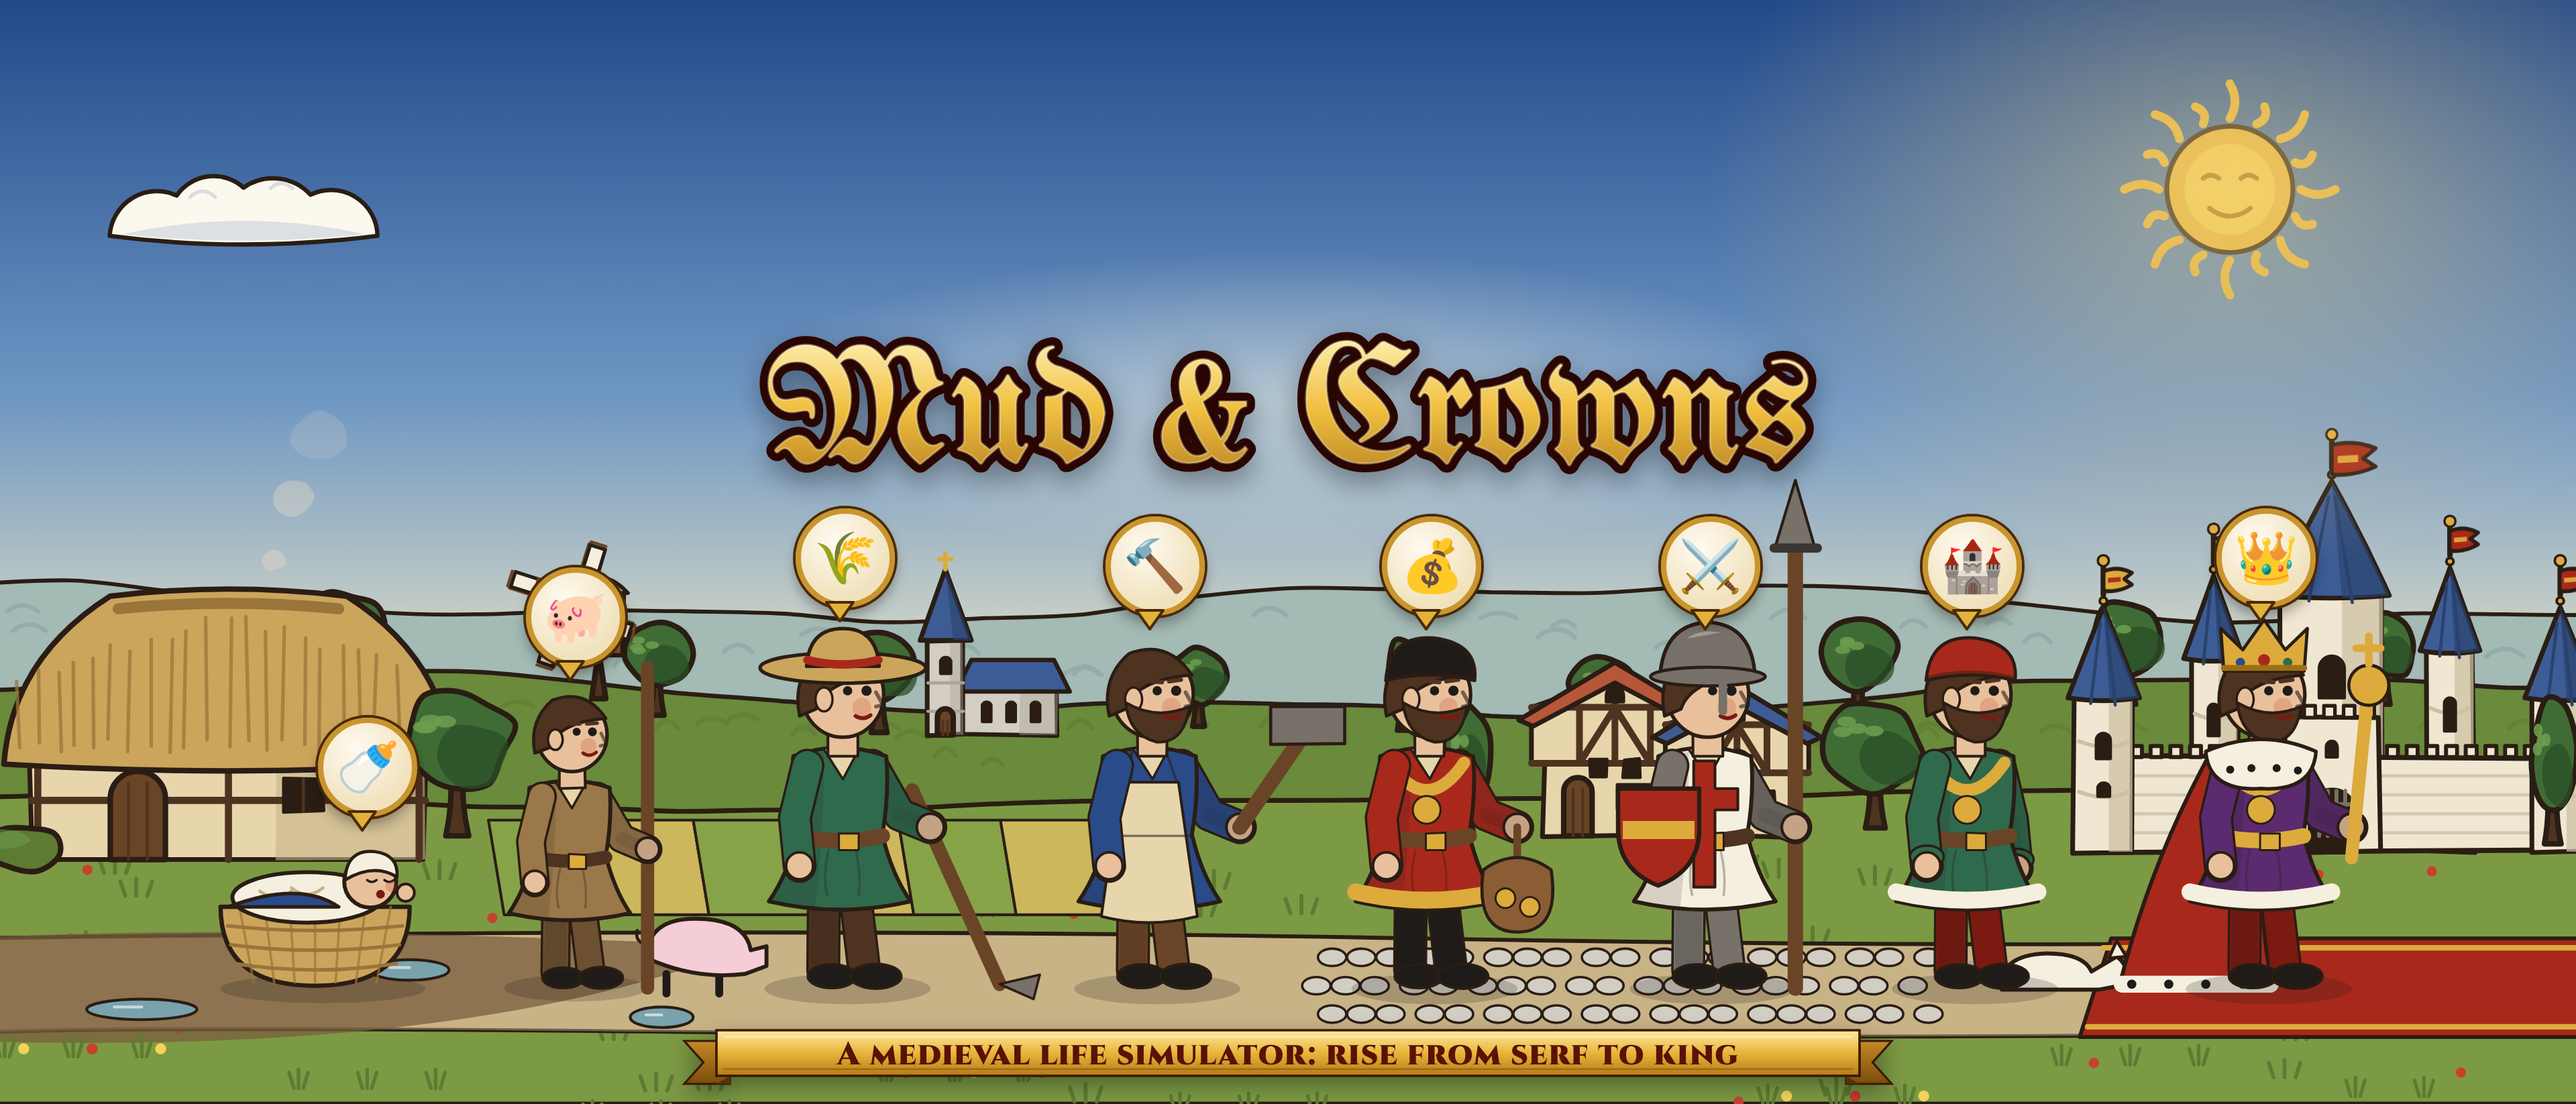
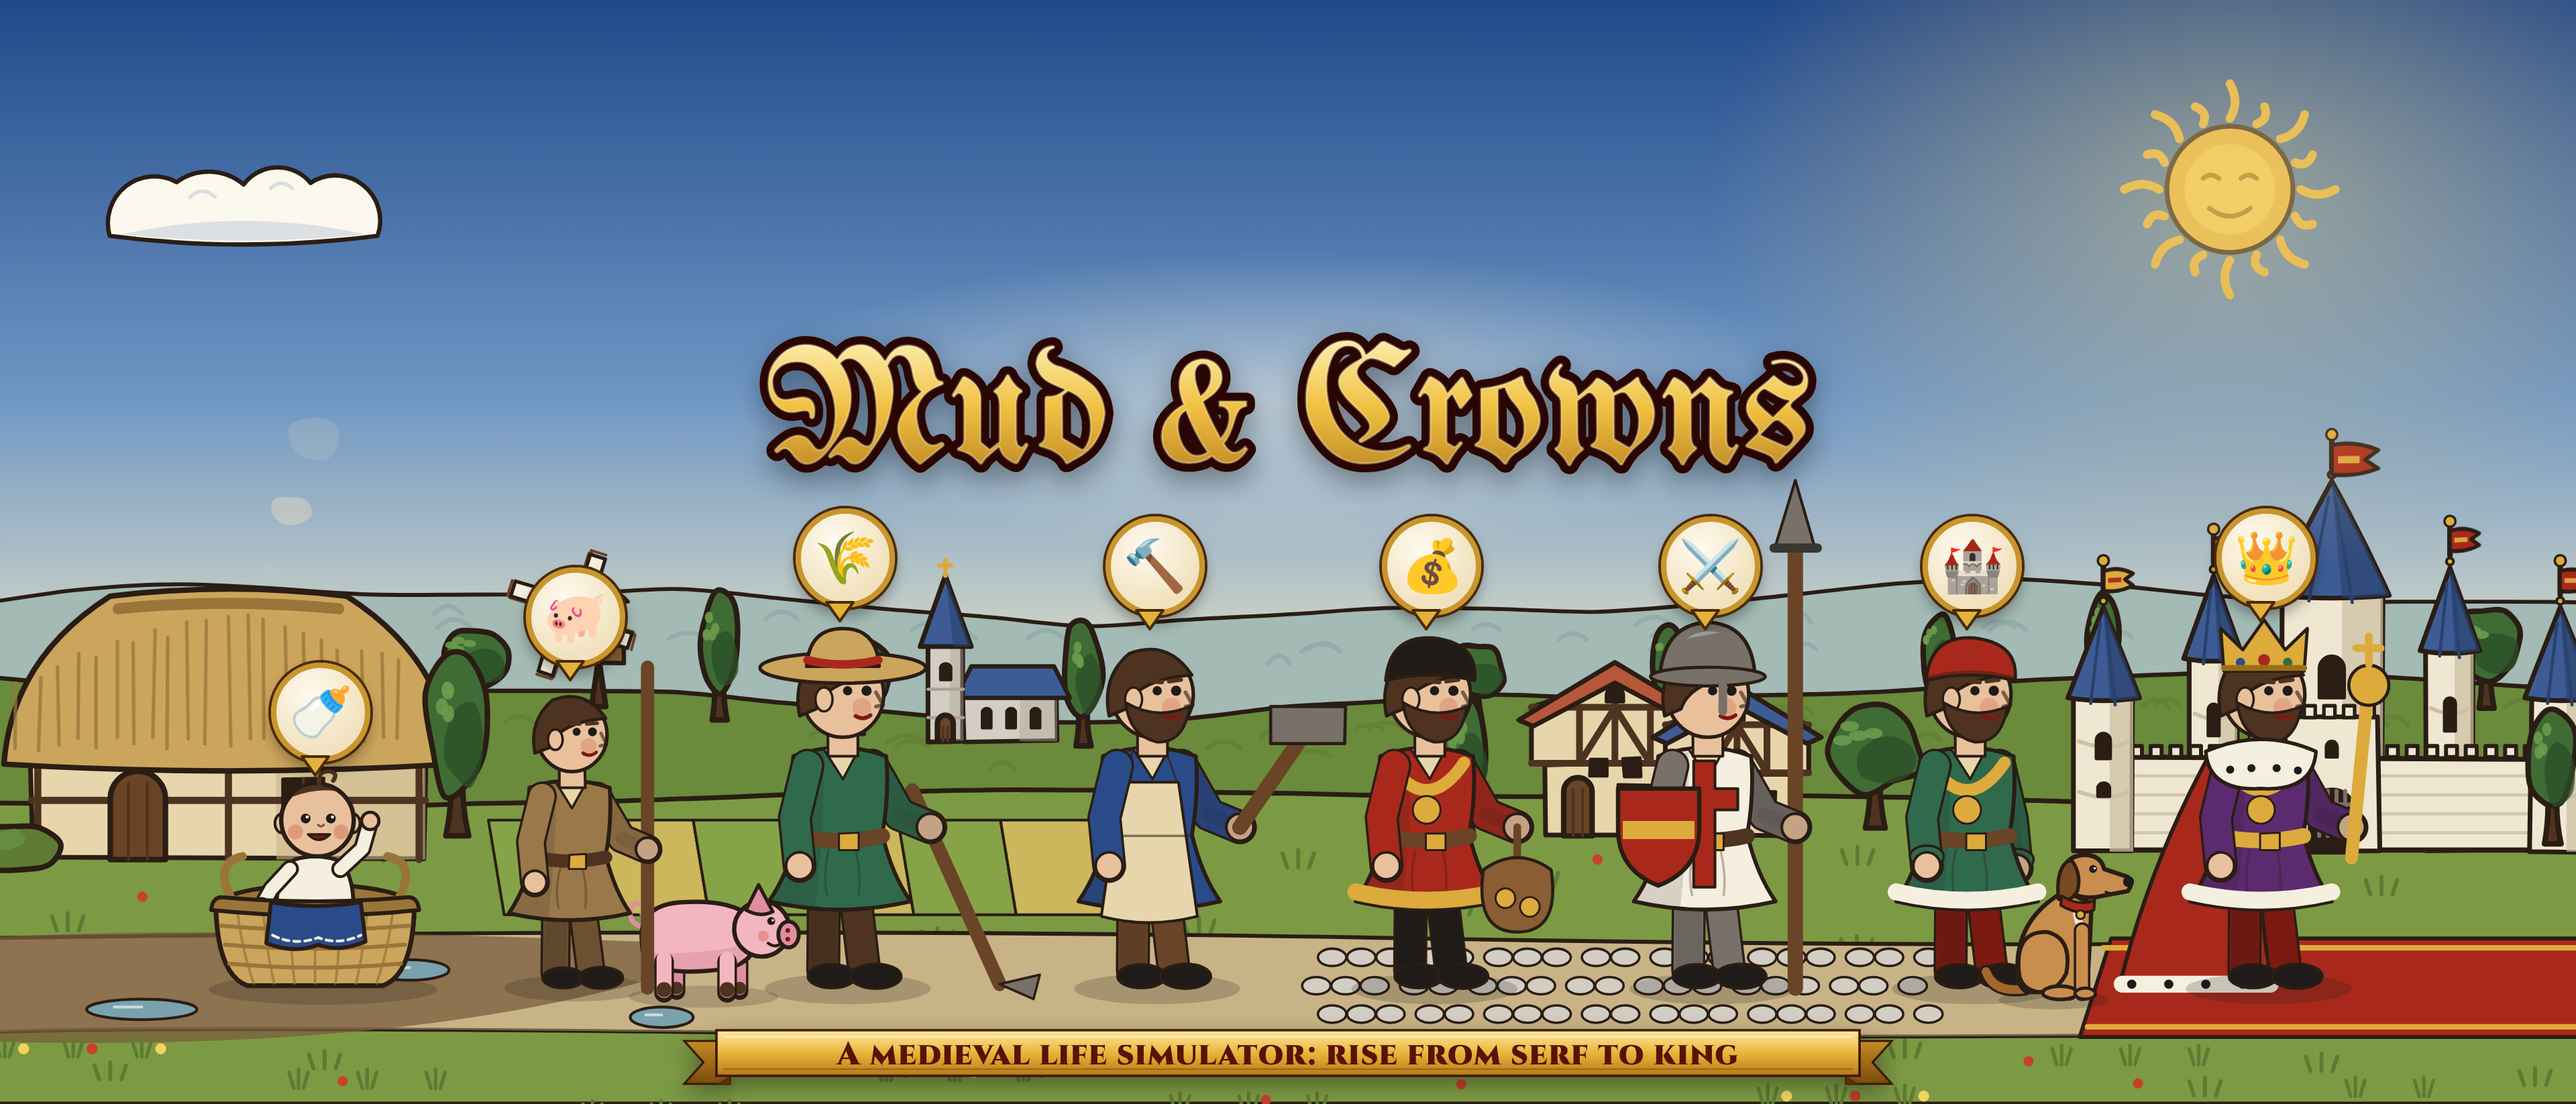
Header: a better baby, pig and hound
The baby now sits up in a wicker basket and waves, with a round face,
bright eyes and a blue blanket over the rim. The pig is a proper pig:
snout, ear, curly tail and trotters. The lord's hound sits beside him
looking up the road to the king, in a red collar, instead of lying flat
and half hidden. Not sent to Apple; waiting for approval.

Claude-Session: https://claude.ai/code/session_01Ng8y7vFwhLArsm3PAF3YVs

diff --git a/store/promo/README.md b/store/promo/README.md
@@ -17,7 +17,7 @@ Nothing here is sent to Apple automatically. When approved, upload in App Store 
 
 ## Product page header: 3840 × 1646 (21:9)
 
-`MudCrowns_header_3840x1646.png` is the wide banner at the top of the product page, like BitLife's: one life walking left to right, painted by the game's own scene painter. A baby in a basket by a thatched hovel, a serf boy with the lord's pig, a peasant with a hoe, a craftsman with his hammer, a merchant with his purse, a knight with spear and shield, a lord with his hound, and a king in crown and ermine on the red carpet before his castle. The road goes from mud to cobbles to carpet. Over each stage is an icon in a parchment badge with the game's gold marker; the name is in the sky, and a ribbon along the bottom reads "A medieval life simulator: rise from serf to king". The name sits inside Apple's central safe area (1646 × 661 at x 1097, y 493). No transparency. `preview/phone_preview_header.png` is a mock-up of how it looks on a phone, for checking only: do not upload it.
+`MudCrowns_header_3840x1646.png` is the wide banner at the top of the product page, like BitLife's: one life walking left to right, painted by the game's own scene painter. A baby sitting up and waving in a wicker basket by a thatched hovel, a serf boy with the lord's pink pig, a peasant with a hoe, a craftsman with his hammer, a merchant with his purse, a knight with spear and shield, a lord with his hound sitting at his side, and a king in crown and ermine on the red carpet before his castle. The road goes from mud to cobbles to carpet. Over each stage is an icon in a parchment badge with the game's gold marker; the name is in the sky, and a ribbon along the bottom reads "A medieval life simulator: rise from serf to king". The name sits inside Apple's central safe area (1646 × 661 at x 1097, y 493). No transparency. `preview/phone_preview_header.png` is a mock-up of how it looks on a phone, for checking only: do not upload it.
 
 Headers are new with iOS 27 and only show on iOS 27 or later. Upload: your app, the version, Product Page Information, Header and Search Results, Header. Drag the file in, Save, then submit the version for review; it goes live when that version is approved and released. Use Preview there to see how it looks.
 
